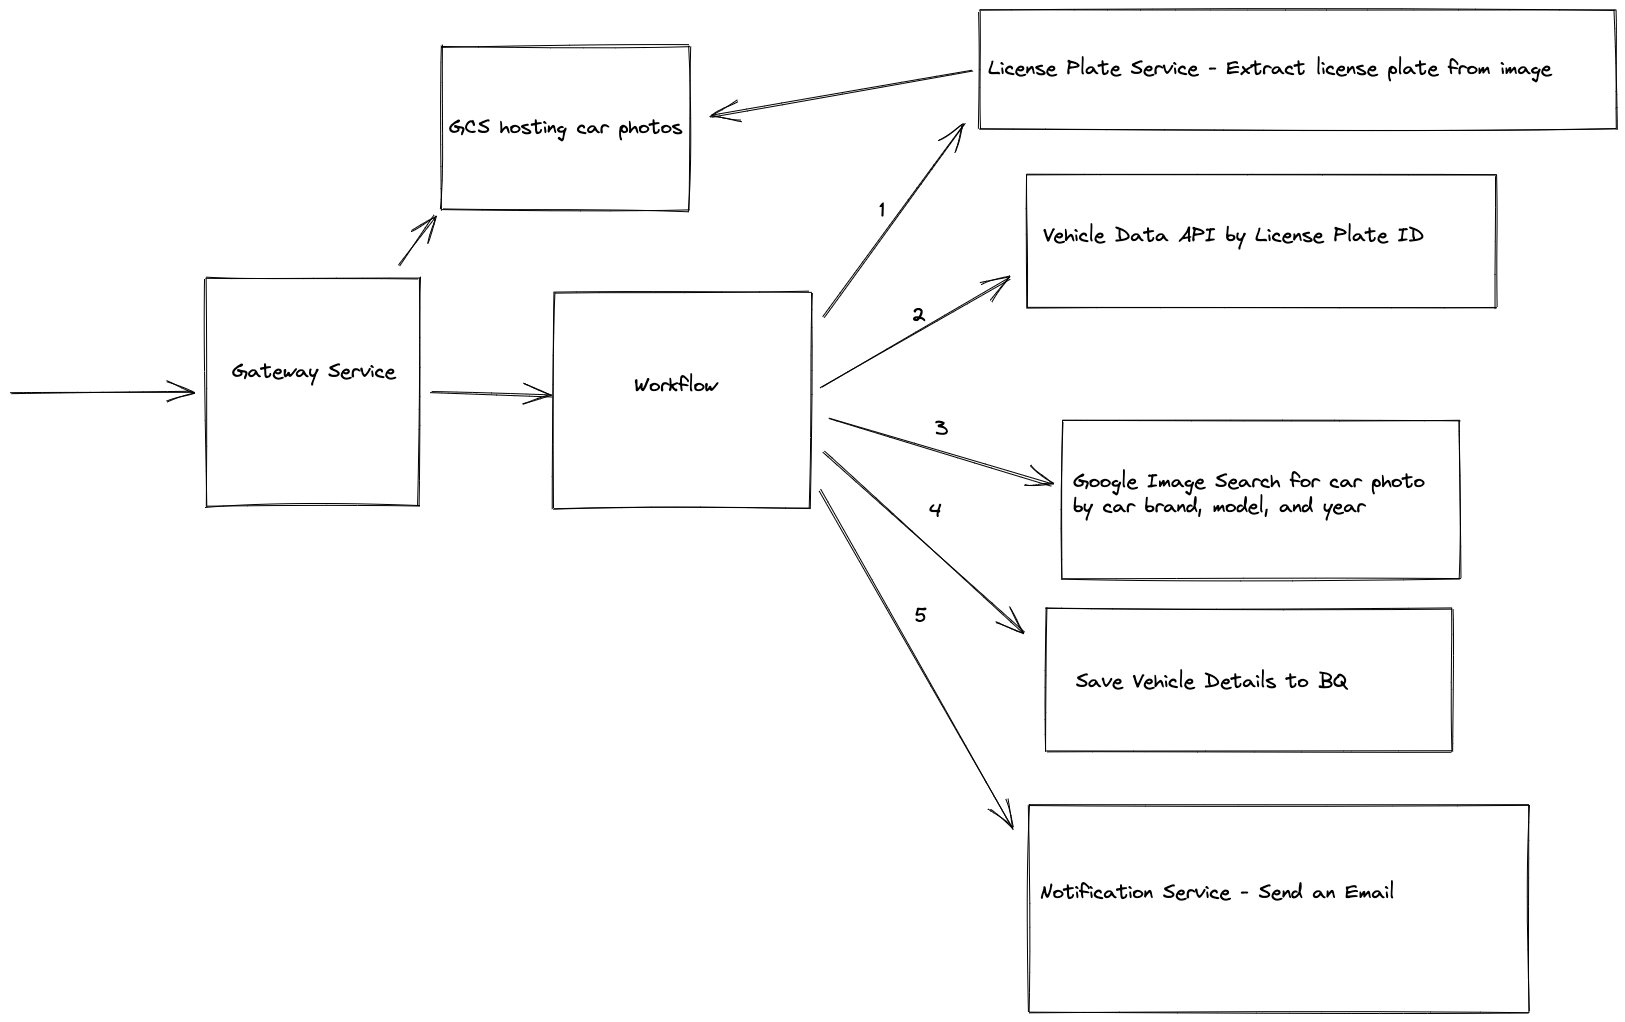
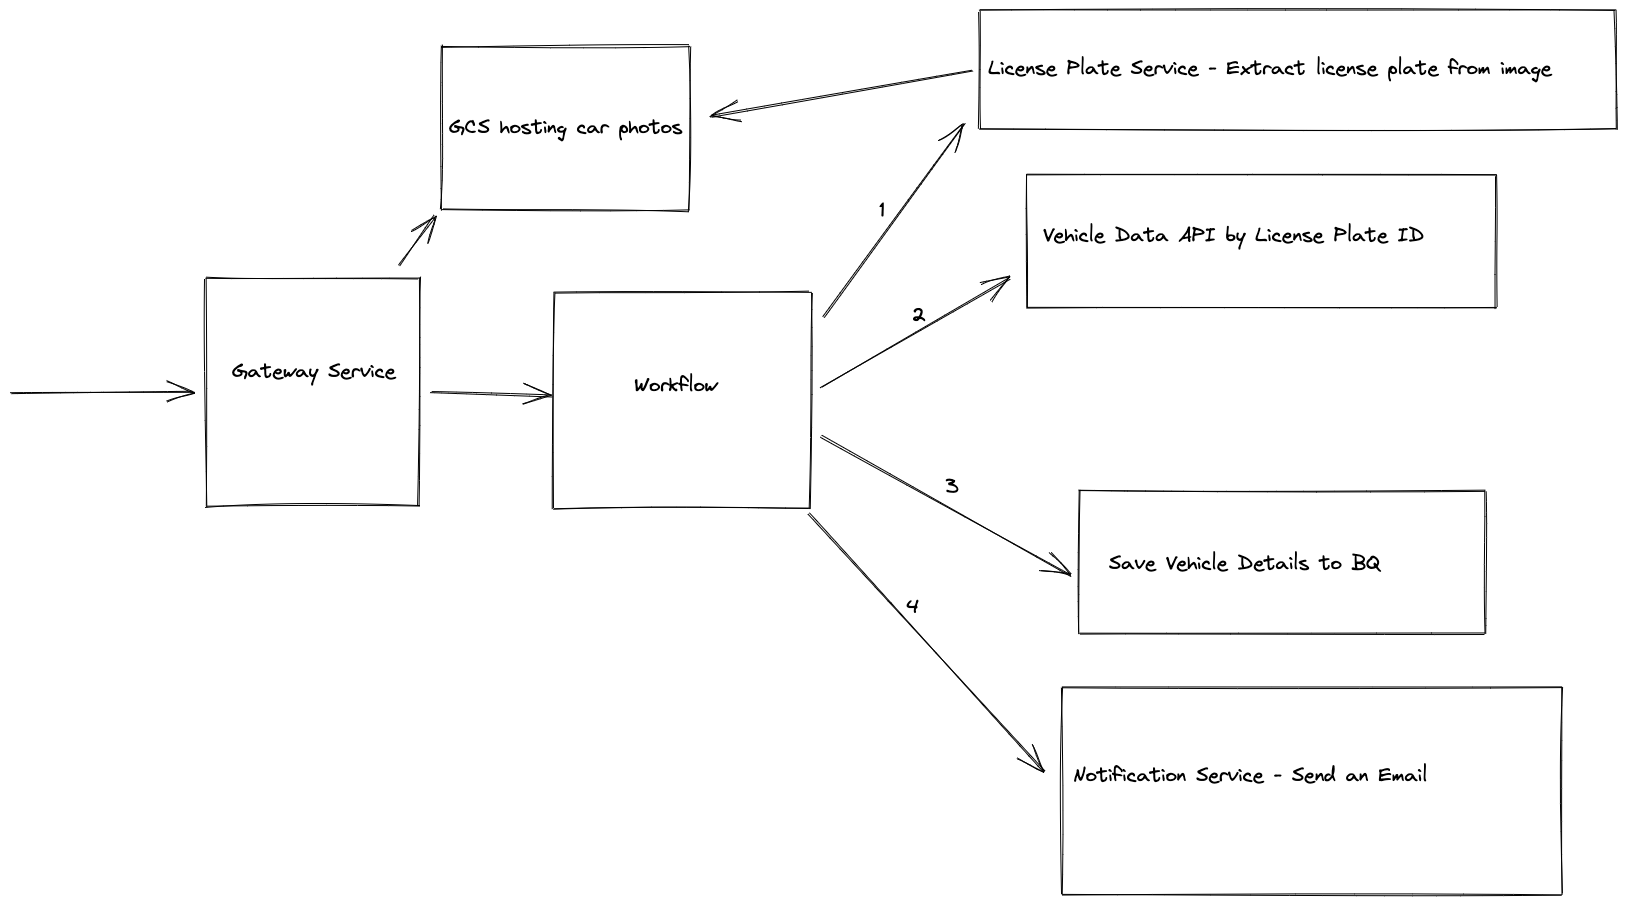
removed google search

diff --git a/gateway/index.js b/gateway/index.js
@@ -16,8 +16,6 @@ const {ExecutionsClient} = require('@google-cloud/workflows');
 const client = new ExecutionsClient();
 
 const projectId = process.env.GOOGLE_CLOUD_PROJECT;
-const searchId = process.env.SEARCH_ID;
-const searchCx = process.env.SEARCH_CX;
 const workflow = 'mail';
 
 const storage = new Storage();
@@ -59,8 +57,6 @@ app.post('/', async (req, res) => {
                 car_photos_bucket_name: bucketName,
                 car_photo_file_name: imgFileName,
                 to_email: req.body.to_email,
-                search_id: searchId,
-                search_cx: searchCx,
               }),
           },
           parent: client.workflowPath(projectId, 'europe-west4', workflow),
@@ -79,13 +75,6 @@ app.post('/', async (req, res) => {
 
 if (!projectId)
   return console.error('ERROR: GOOGLE_CLOUD_PROJECT is required.');
-
-if (!searchId)
-  return console.error('ERROR: SEARCH_ID is required.');
-
-if (!searchCx)
-  return console.error('ERROR: SEARCH_CX is required.');
-
 
 const port = process.env.PORT || 8080;
 app.listen(port, () => {

diff --git a/notification/main.go b/notification/main.go
@@ -18,7 +18,6 @@ type VehicleDetails struct {
 	Year      string
 	FrontTire string
 	BackTire  string
-	ImageURL  string
 }
 
 type RequestVehicle struct {
